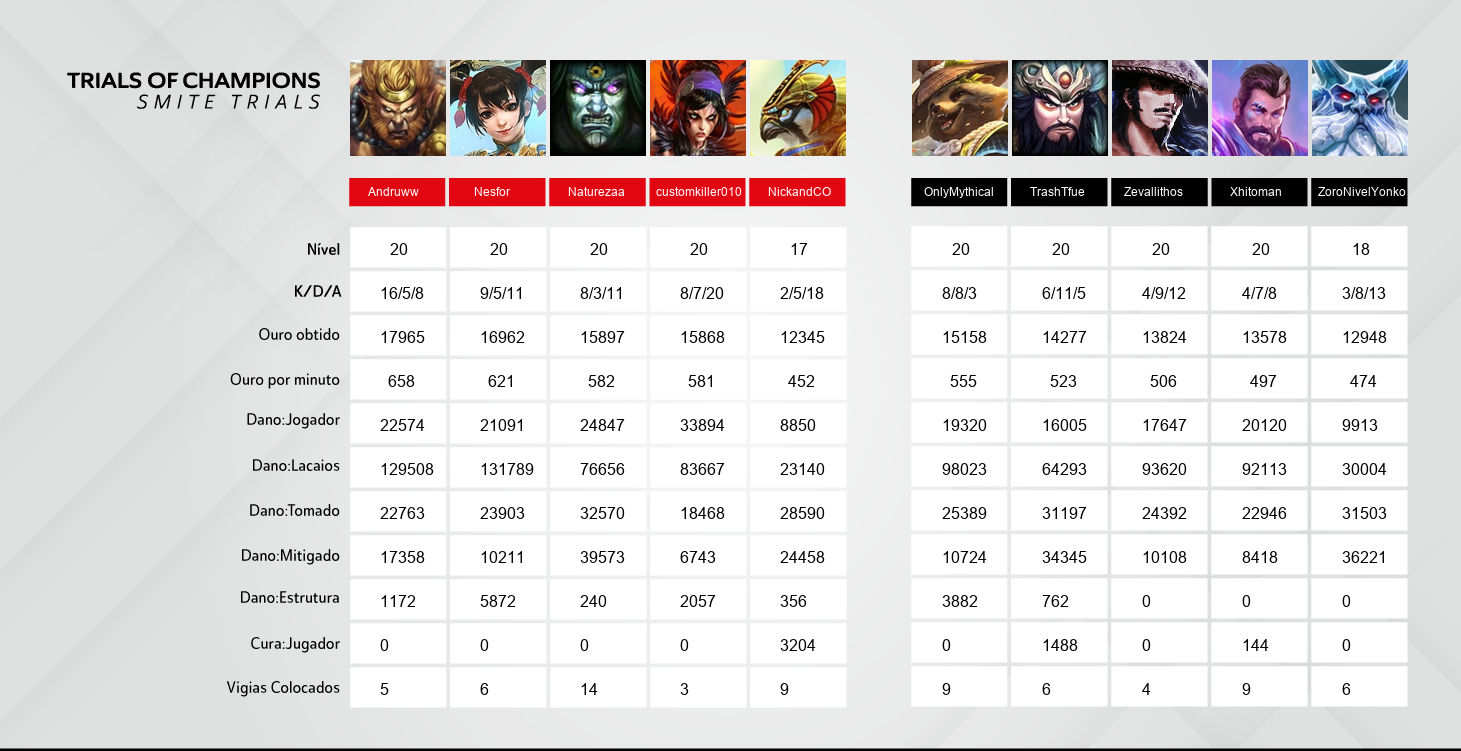
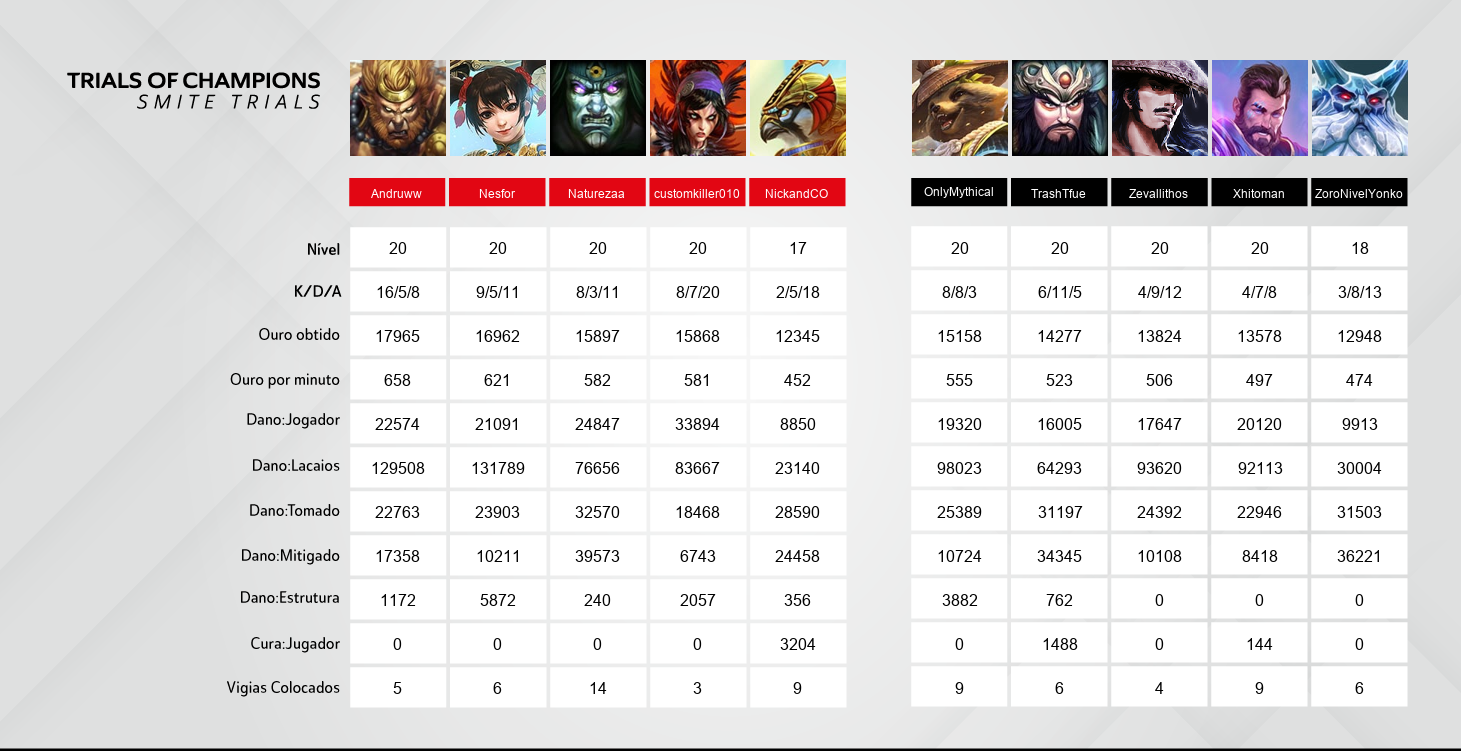
Image commands fix

diff --git a/imgcreation.py b/imgcreation.py
@@ -11,6 +11,7 @@ Funções que transformam a URL em Imagem:
 2 - forma_img 2x1 - (Para colagens com proporção 2x1, ex.: colagem dos ícones do Paladins 96x48px
 """
 
+
 def forma_img_1x1(url):
     header = {"User-Agent": "Mozilla/5.0"}
     req = urllib.request.Request(url, None, header)
@@ -37,6 +38,7 @@ Obs. 2: O jogo é diferenciado pela variável game, que é o nome do jogo em uma
 
 1 - pega_stat_img
 """
+
 
 def pega_stat_img(game, stat_id, champions, itens):
     if game == "paladins":
@@ -87,6 +89,7 @@ Obs. 2: O jogo é diferenciado pela variável game, que é o nome do jogo em uma
 4 - teams_paste (Só no Paladins por enquanto)
 5 - nicks_paste (Só no Smite por enquanto)
 """
+
 
 def itens_paste(game, stat_id_list, bkg, champions, itens):
     # Igonorar por enquanto, função sem uso, necessita criar uma nova imagem e mudar todas as dimensões
@@ -196,25 +199,18 @@ def stats_paste(game, stats_list, bkg):
         length = 100  # A distância horizontal entres os stats
         height = 44  # A distância vertical entre os players
         count = 11  # Número de stats por player
-        start_box = [380, 240]  # Aonde os stats vão começar a ser colados
+        start_box = [398, 254]  # Aonde os stats vão começar a ser colados
         for stat in stats_list:  # percorre todos os stats (str)
             if line_count == count:  # Quando chega no último stat do player
                 collum_count += 1  # Passa pra póxima coluna
                 line_count = 0  # Reseta a contagem de linhas
-            if line_count == 0:  # Quando for o primeiro stat a ser colado
-                plus = 10  # Coloca essa distância, pois o lvl precisa de uma distância a mais pra ser colado
                 if collum_count == 5:  # Quando chegar no primeiro player do próximo time
                     start_box[0] += 62  # Colcoa a distância entre os times
-            elif line_count == 1:
-                if len(stat) >= 8:
-                    plus = -8
-            elif line_count == 3:
-                plus = 8
-            box = [start_box[0] + length * collum_count + plus, start_box[1] + height * line_count]
+            box = [start_box[0] + length * collum_count, start_box[1] + height * line_count]
+            # reference: https://pillow.readthedocs.io/en/stable/handbook/text-anchors.html
             # Cria o box de colagem
-            draw.text(box, str(stat), (0, 0, 0), font)  # Desenha o stat na imagem
+            draw.text(box, str(stat), (0, 0, 0), font, anchor="mb")  # Desenha o stat na imagem
             line_count += 1
-            plus = 0  # Reseta a distância do lvl pra não dar problema de colagem errada
 
 
 def nicks_paste(game, nicks_list, bkg):
@@ -224,28 +220,19 @@ def nicks_paste(game, nicks_list, bkg):
     elif game == "smite":
         collum_count = 0  # Contagem de colunas para fazer o espaçamento
         length = 100  # Distância horizontal entre os nomes
-        start_box = [350, 185]  # Aonde os nomes vão começar a ser colados
-        font = ImageFont.truetype("./fonts/Arial.ttf", 12)  # Define a fonte dos nicks
+        start_box = [397, 198]  # Aonde os nomes vão começar a ser colados
         draw = ImageDraw.Draw(bkg)  # Método para "desenhar" o stat na imagem
+        font_comparacao = ImageFont.truetype("./fonts/Arial.ttf", 12)
         for nick in nicks_list:  # Pra cada nick na lista
-            """
-            Os If's/elif's abaixo servem para verificar o tamanho do nick do player e dar o espaçamento correto
-            para que o nick fique o máximo centralizado possível
-            """
-            if len(nick) <= 6:
-                len_nick = 24
-            elif len(nick) <= 9:
-                len_nick = 18
-            elif len(nick) <= 12:
-                len_nick = 12
+            if draw.textsize(nick, font=font_comparacao)[0] > 96:  # Define a fonte dos nicks
+                font = ImageFont.truetype("./fonts/Arial.ttf", 10)
             else:
-                len_nick = 6
+                font = ImageFont.truetype("./fonts/Arial.ttf", 12)
             if collum_count == 5:  # Quando chegar no sexto player, ou seja, primeiro jogador do time perdedor
                 start_box[0] += 62  # Distância entre os times
-            box = [start_box[0] + length * collum_count + len_nick, start_box[1]]  # Cria a box para colagem
-            draw.text(box, str(nick), (255, 255, 255), font)  # Desenha na imagem
+            box = (start_box[0] + length * collum_count, start_box[1])  # Cria a box para colagem
+            draw.text(box, str(nick), (255, 255, 255), font, anchor="mb")  # Desenha na imagem
             collum_count += 1
-
 
 """
 Função que é importada pelo arquivo principal para criar as imagens
@@ -254,6 +241,7 @@ Obs. 2: O jogo é diferenciado pela variável game, que é o nome do jogo em uma
 
 1 - create_stats_img
 """
+
 
 def create_stats_img(game, icons_id_list, nicks_list, stats_list, teams_list, champions, itens):
     if game == "paladins":
@@ -276,30 +264,8 @@ def create_stats_img(game, icons_id_list, nicks_list, stats_list, teams_list, ch
 # "Damage_Player", "Healing"] itens_reference = ["ItemId1", "ItemId2", "ItemId3", "ItemId4", "ItemId5", "ItemId6",
 # "ActiveId1", "ActiveId2", "ActiveId3", "ActiveId4"] match_inf = paladins_req.getMatch(match) for player in
 # match_inf: for item in itens_reference: lista_stats.append(player[item])
-#
-# for player in match_inf:
-#     lista_champId.append(player["ChampionId"])
-
-# bkg.save("./createdimages/Teste.png")
 
 # #stats: [playerName]
 # champion: [ChampionId] - [Deaths] - [Assists] - [Gold_Earned]
 # baralho: [ItemId1 -> 6] (6 = lendária) - [ItemLevel1 -> 5]
 # itens: [ActiveId1 -> 4] - [ActiveLevel1 ->4]
-
-
-# """Cria imagens pra backup"""
-
-# lista_champUrl = []
-# champions = paladins_req.getChampions()
-# for champion in champions:
-#      lista_champUrl.append(champion["ChampionIcon_URL"])
-#      lista_champId.append(champion["id"])
-# index = 0
-# print("iniciando colagem")
-# for url in lista_champUrl:
-#     img = FormaImg(url)
-#     print("Imagem ", index, " Criada")
-#     index += 1
-#     img.save("./champIcons/" + str(lista_champId[index]) + ".png")
-#     print("Imagem ", index, " Salva")

diff --git a/trialsbot.py b/trialsbot.py
@@ -28,10 +28,9 @@ smite_req = pyrez.SmiteAPI(devId=devId_Hirez, authKey=authKey_Hirez)
 session_id_paladins = paladins_req._createSession()
 session_id_smite = smite_req._createSession()
 
-#print(smite_req.getMatch(1157950731))
 paladins_champions = paladins_req.getChampions()  # Instancia lista de campeões
 paladins_itens = paladins_req.getItems()  # Instancia lista de itens
-if paladins_itens == None:
+if paladins_itens is None:
     paladins_itens = paladins_req.getItems()
 smite_gods = smite_req.getGods()
 smite_itens = smite_req.getItems()
@@ -351,15 +350,23 @@ def pegar_id(match_id, game):
     match_inf = game.getMatch(match_id)  # Instancia as informações da partida
     details_players = ""
     index = 0  # Index usado para separar os times
-    for details in match_inf:  # Confere se a conta do player é privada, nome retorna vazio
-        if details["playerName"] == "":
-            player_name = "Privado"  # Troca nome vazio
-            player_id = "Privado"  # Troca Id 0
-        else:
-            player_name = details["playerName"]
-            player_id = details["playerId"]
-        details_players += "\n" + details["Win_Status"] + " - " + "Nick: " + player_name + " - " + "Campeão: " + \
-                           details["Reference_Name"] + " - " + "id: " + player_id  # Adiciona stats na mensagem
+    for player in match_inf:  # Confere se a conta do player é privada, nome retorna vazio
+        if game == paladins_req:
+            if player["playerName"] == "":
+                player_name = "Privado"  # Troca nome vazio
+                player_id = "Privado"  # Troca Id 0
+            else:
+                player_name = player["playerName"]
+                player_id = player["playerId"]
+
+        elif game == smite_req:
+            player_name = player["hz_player_name"]
+            player_id = player["playerId"]
+            if player_id == "0":
+                player_id = str(smite_req.getPlayerId(player_name)[0]["player_id"])
+
+        details_players += "\n" + player["Win_Status"] + " - " + "Nick: " + player_name + " - " + "Campeão: " + \
+                            player["Reference_Name"] + " - " + "id: " + player_id  # Adiciona stats na mensagem
         index += 1
         if index == 5:
             details_players += "\n" + "\n" + "--------------------" + "\n"
@@ -448,7 +455,6 @@ def cria_imagem(match_id, game):
     # Caso seja Paladins
     if game == paladins_req:
         match_inf = paladins_req.getMatch(match_id)  # Instancia os stats da partida
-        print(match_inf)
         stats_reference_1 = ["playerName", "Gold_Earned"]
         stats_reference_2 = ["Kills_Player", "Deaths", "Assists"]
         stats_reference_3 = ["Killing_Spree", "Objective_Assists", "Damage_Player", "Damage_Mitigated", "Healing"]
@@ -475,7 +481,18 @@ def cria_imagem(match_id, game):
 
         for player in match_inf:  # Pra cada jogador
             icons_id_list.append(player["GodId"])  # adiciona Id do god na lista
-            nicks_list.append(player["hz_player_name"])
+            if not player["playerName"]:
+                if not player["hz_player_name"]:
+                    player_name = ""
+                else:
+                    player_name = player["hz_player_name"]
+            else:
+                try:
+                    player_name = player["playerName"][player["playerName"].find("]") + 1:]
+                except:
+                    player_name = player["playerName"]
+            nicks_list.append(player_name)
+
         # Cria a lista de stats
         stats_list = cria_stats_list(match_inf, stats_reference_1, stats_reference_2, stats_reference_3)
 

diff --git a/valorant.py b/valorant.py
@@ -1,0 +1,7 @@
+import requests
+
+x = requests.get("https://valorant-api.com/v1/riot/account/v1/accounts/by-riot-id/antonio272/4901") #.json()["data"]
+
+print(x)
+
+
